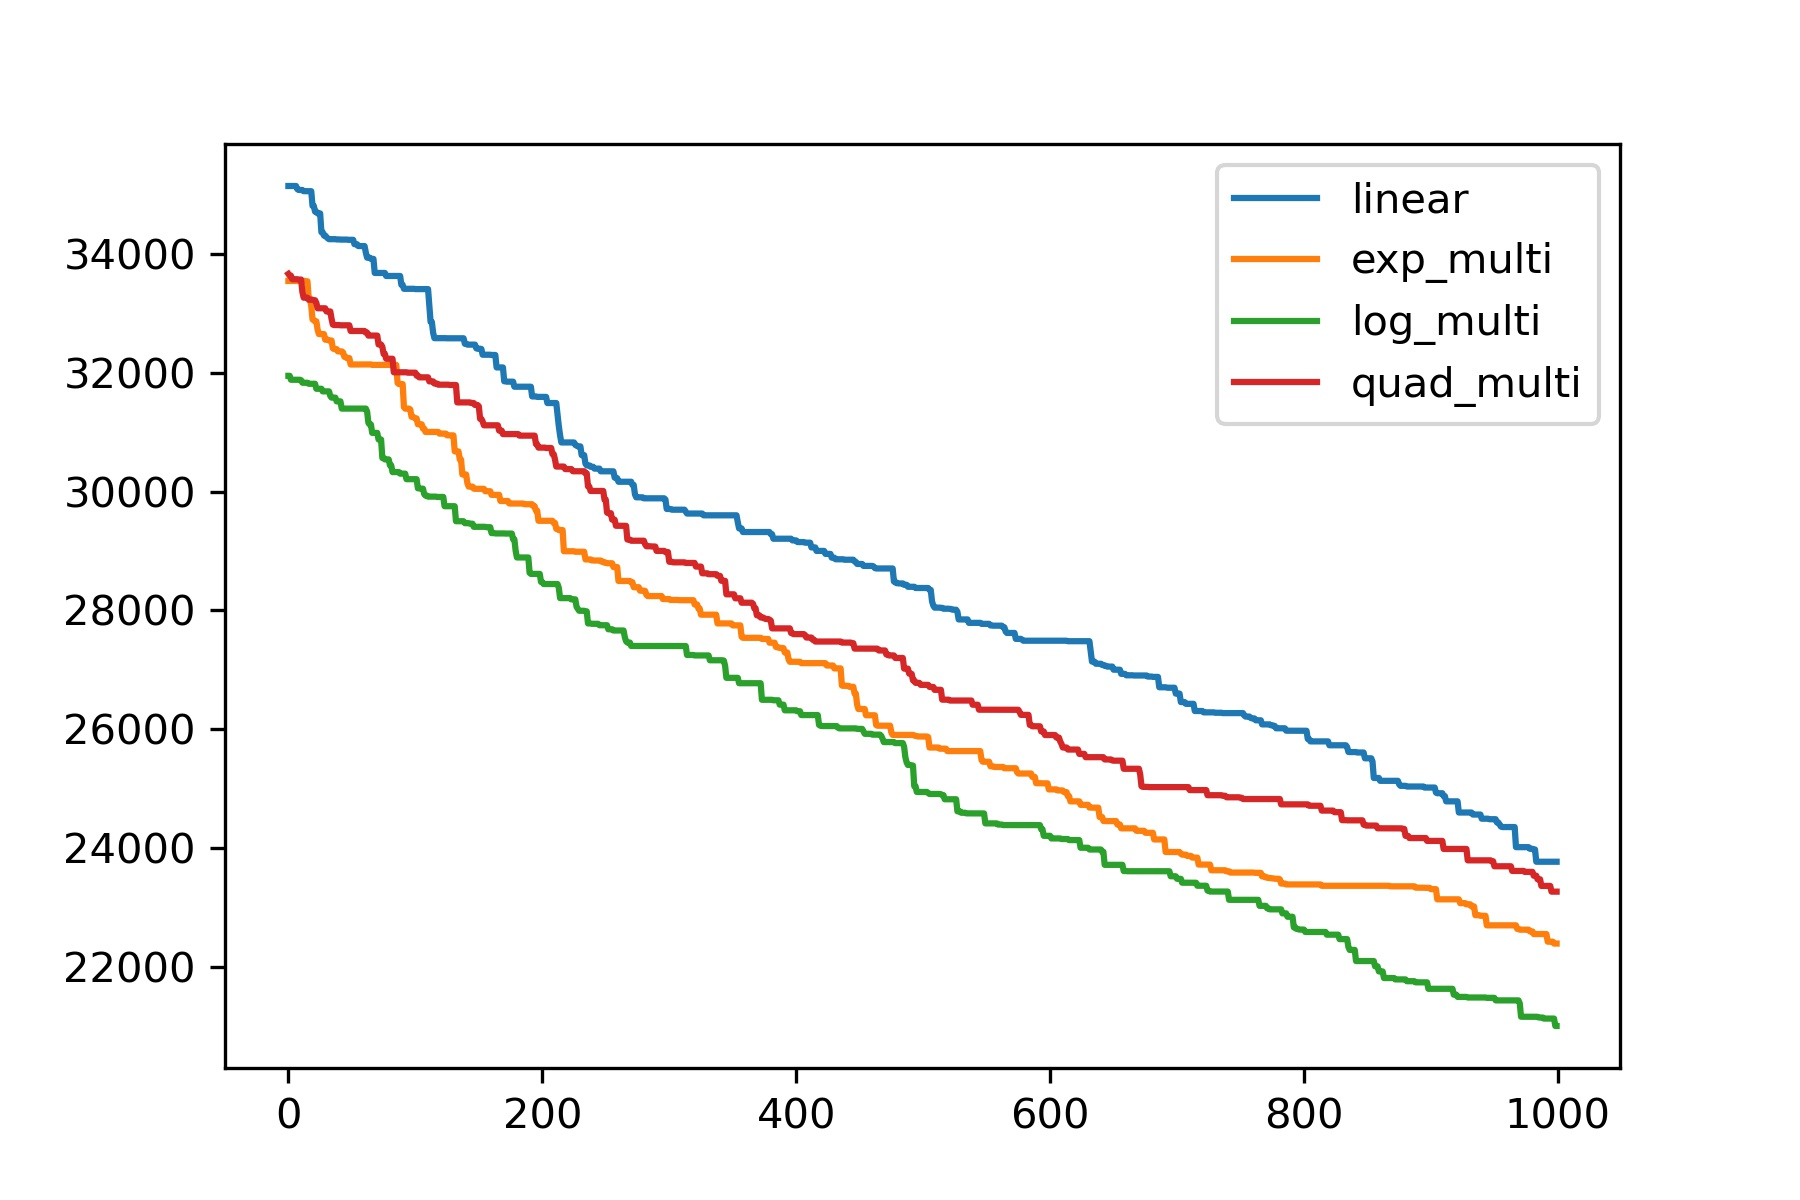
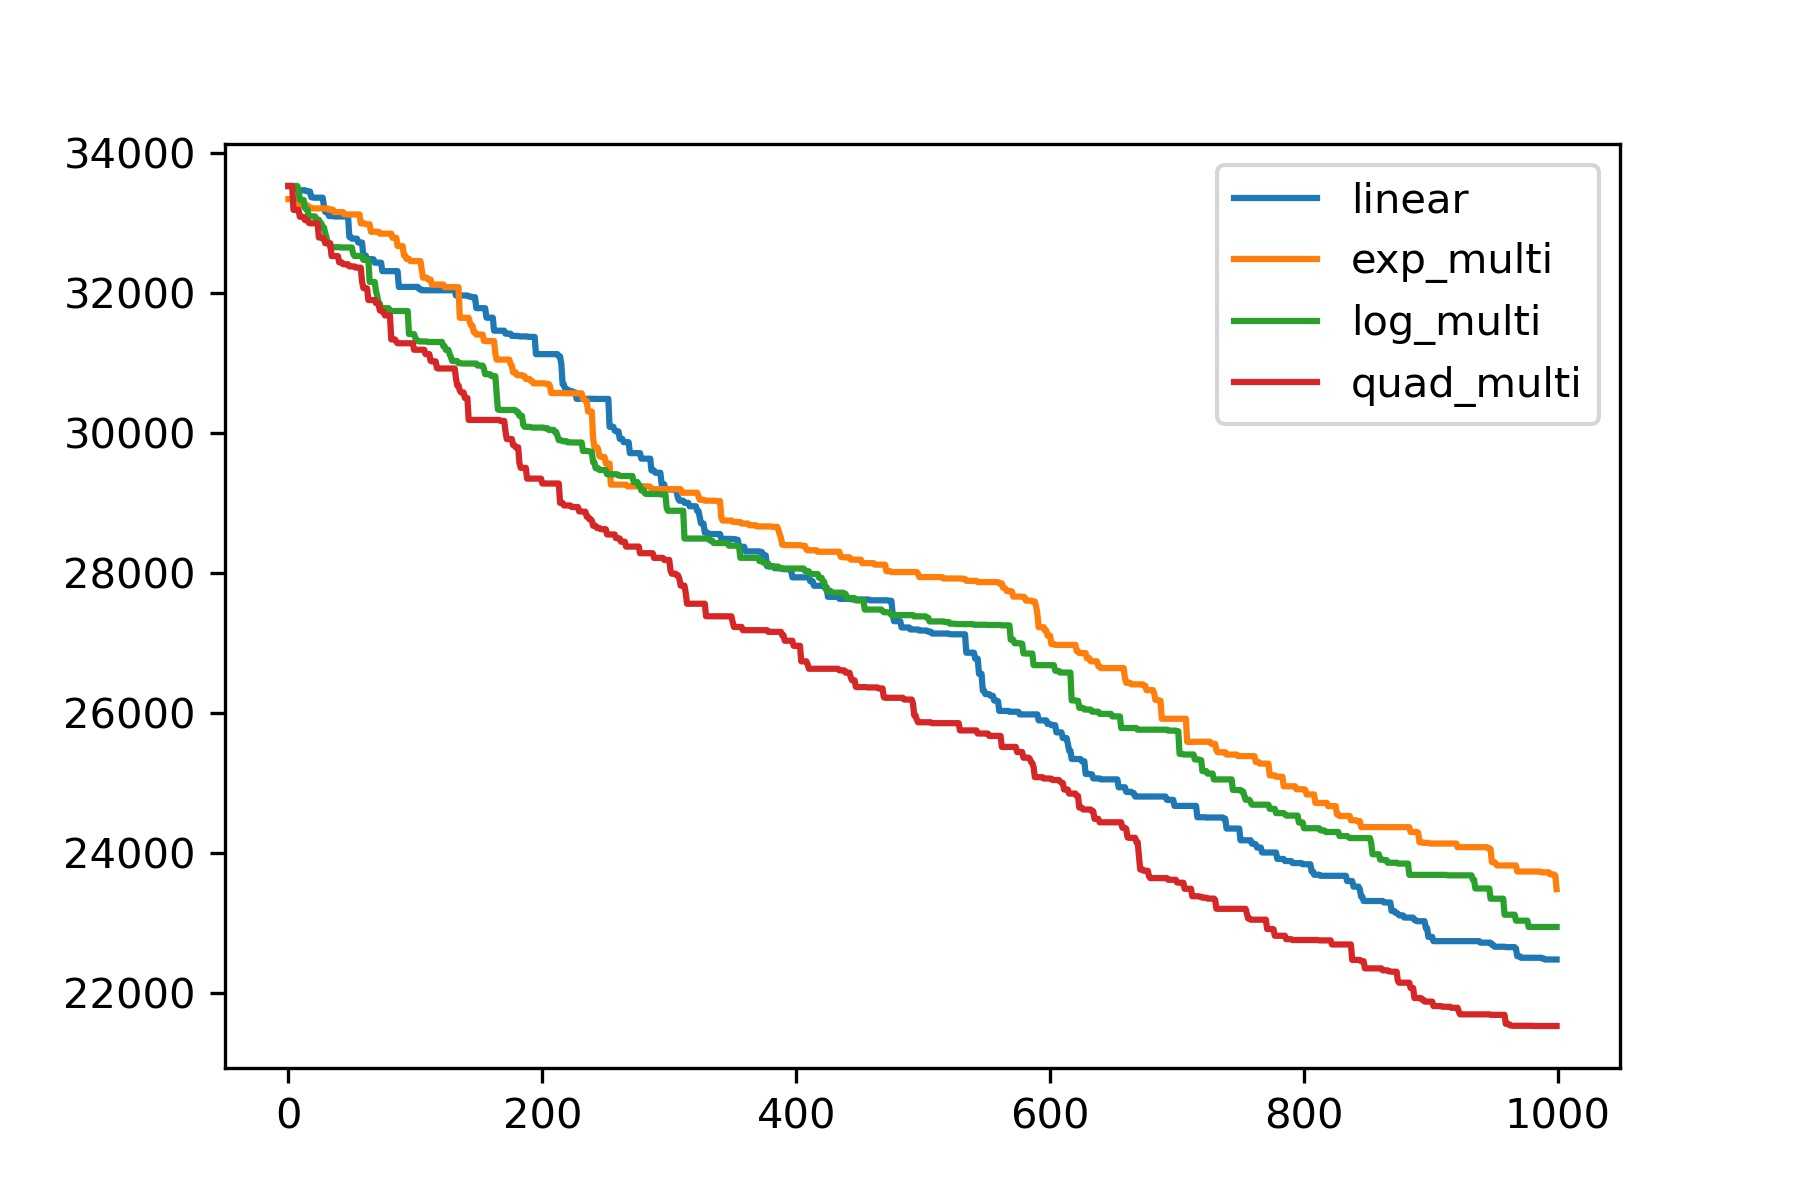
can now be executed on the difficult tsp problem , implemented path graph and SA comparison graph

diff --git a/SenneBakker_13918079_WiebeTimmers_11298294_Assignment3.py b/SenneBakker_13918079_WiebeTimmers_11298294_Assignment3.py
@@ -15,13 +15,13 @@ fig = plt.figure(figsize=(6,4), dpi=300)
 # Lecture 9
 # https://www.cs.cmu.edu/afs/cs.cmu.edu/project/learn-43/lib/photoz/.g/web/glossary/anneal.html
 # http://what-when-how.com/artificial-intelligence/a-comparison-of-cooling-schedules-for-simulated-annealing-artificial-intelligence/
+# https://codereview.stackexchange.com/questions/208387/2-opt-algorithm-for-the-traveling-salesman-and-or-sro
 
 def init_cities(text_file):
     f = open(text_file, 'r')
     g = f.readlines()
     cities_raw = g[6:]
     cities = {'city': [], 'x': [], 'y': []}
-
     for city in cities_raw:
         city = city.strip('  ')
         city = city.strip(' ')
@@ -34,7 +34,6 @@ def init_cities(text_file):
         cities['city'].append(city_entry[0])
         cities['x'].append(city_entry[1])
         cities['y'].append(city_entry[2])
-
     return cities
 
 
@@ -54,10 +53,8 @@ def generate_rand_path(no_cities):
         count +=1
         if count == max_edges:
             break
-
     edges.append((edges[-1][1], edges[0][0]))
     return edges
-
 
 def calculate_path_distance(path, distances):
     total_distance = 0.0
@@ -79,20 +76,17 @@ def two_opt(cur_path):
     idx2 = random.randint(2, len(new_path))
     while idx2 == idx1:
         idx2 = random.randint(2, len(new_path))
-
     for i in range(1, len(new_path) - 2):
         for j in range(i + 1, len(new_path)):
             if j - i == 1:
-                continue  # changes nothing, skip then
-            new_route = new_path[:]    # Creates a copy of route
-            new_route[i:j] = new_path[j - 1:i - 1:-1]  # this is the 2-optSwap since j >= i we use -1    # change current route to best
+                continue
+            new_route = new_path[:]
+            new_route[i:j] = new_path[j - 1:i - 1:-1]
             if i == idx1 and j == idx2:
-                new_path = new_route  # change current route to best
-
+                new_path = new_route
     edge_path = []
     for i in range(1, len(new_path)):
         edge_path.append((new_path[i - 1], new_path[i]))
-
     return edge_path
 
 
@@ -107,8 +101,8 @@ def temperature(its, total_its, temp_scheme):
         return T0 / (1+ALPHA_QUAD_MULTI_COOL*(its**2))
     return
 
-def simulation(no_cities, dist_cities, its, temp_scheme=None):
-    path = generate_rand_path(no_cities)
+def simulation(path_init, dist_cities, its, temp_scheme=None):
+    path = path_init
     tsp_distance = calculate_path_distance(path, dist_cities)
     distance_list = []
     path_change_count = 0
@@ -150,14 +144,14 @@ def plot_path(path, df_cities, name):
         x = [city1[0], city2[0]]
         y = [city1[1], city2[1]]
         plt.plot(x, y, '-', c='r')
-        plt.text(x[0], y[0], f'{idx}')
+        plt.text(x[0], y[0], f'{p[0]}')
     plt.savefig('path_graphs/path_%s.jpg'%name)
     plt.clf()
     return
 
-#showpath()
-#np.random.seed(12345)
-#cities1 = init_cities('eil51.tsp.txt')
+
+# Initialization
+np.random.seed(12345)
 cities = init_cities('a280.tsp.txt')
 df_cities = pd.DataFrame(cities)
 no_cities = len(df_cities)
@@ -165,33 +159,32 @@ distance = DistanceMetric.get_metric('euclidean')
 pw_dis = distance.pairwise(df_cities[['x','y']].to_numpy())
 dist_cities = pd.DataFrame(pw_dis, columns=df_cities.city.unique(), index=df_cities.city.unique())
 
-
-
+# Number of SA iterations
 ITS = 1000
 
-# cooling scheme parameters
+# Cooling scheme parameters
 T0 = 1.0
 ALPHA_EXP_MULTI_COOL = 0.85
 ALPHA_LOG_MULTI_COOL = 2
 ALPHA_QUAD_MULTI_COOL = 3
 
-temp_schemes = ['linear', 'exp_multi', 'log_multi', 'quad_multi']
-distances = []
-paths = []
 
-for ts in temp_schemes:
-    print('\nPerforming SA with cooling scheme: %s'%ts)
-    path, distance_list = simulation(no_cities, dist_cities, ITS, temp_scheme=ts)
-    plot_path(path, df_cities, ts)
-    distances.append(distance_list)
-    paths.append(path)
+if __name__ == '__main__':
+    temp_schemes = ['linear', 'exp_multi', 'log_multi', 'quad_multi']
+    distances = []
+    paths = []
+    path_init = generate_rand_path(no_cities)
+    for ts in temp_schemes:
+        print('\nPerforming SA with cooling scheme: %s'%ts)
+        path, distance_list = simulation(path_init, dist_cities, ITS, temp_scheme=ts)
+        plot_path(path, df_cities, ts)
+        distances.append(distance_list)
+        paths.append(path)
+    for idx, ds in enumerate(distances):
+        plt.plot(list(range(0,ITS,1)), ds, label='%s'%temp_schemes[idx])
+    plt.legend()
+    plt.savefig('distances.jpg')
 
-for idx, ds in enumerate(distances):
-    plt.plot(list(range(0,ITS,1)), ds, label='%s'%temp_schemes[idx])
-
-plt.legend()
-plt.savefig('distances.jpg')
-
-
+# Run single simulation
 #path, distance_list = simulation(no_cities, dist_cities, ITS, temp_scheme='log_multi')
 #plot_path(path, df_cities, 'log_multi')
